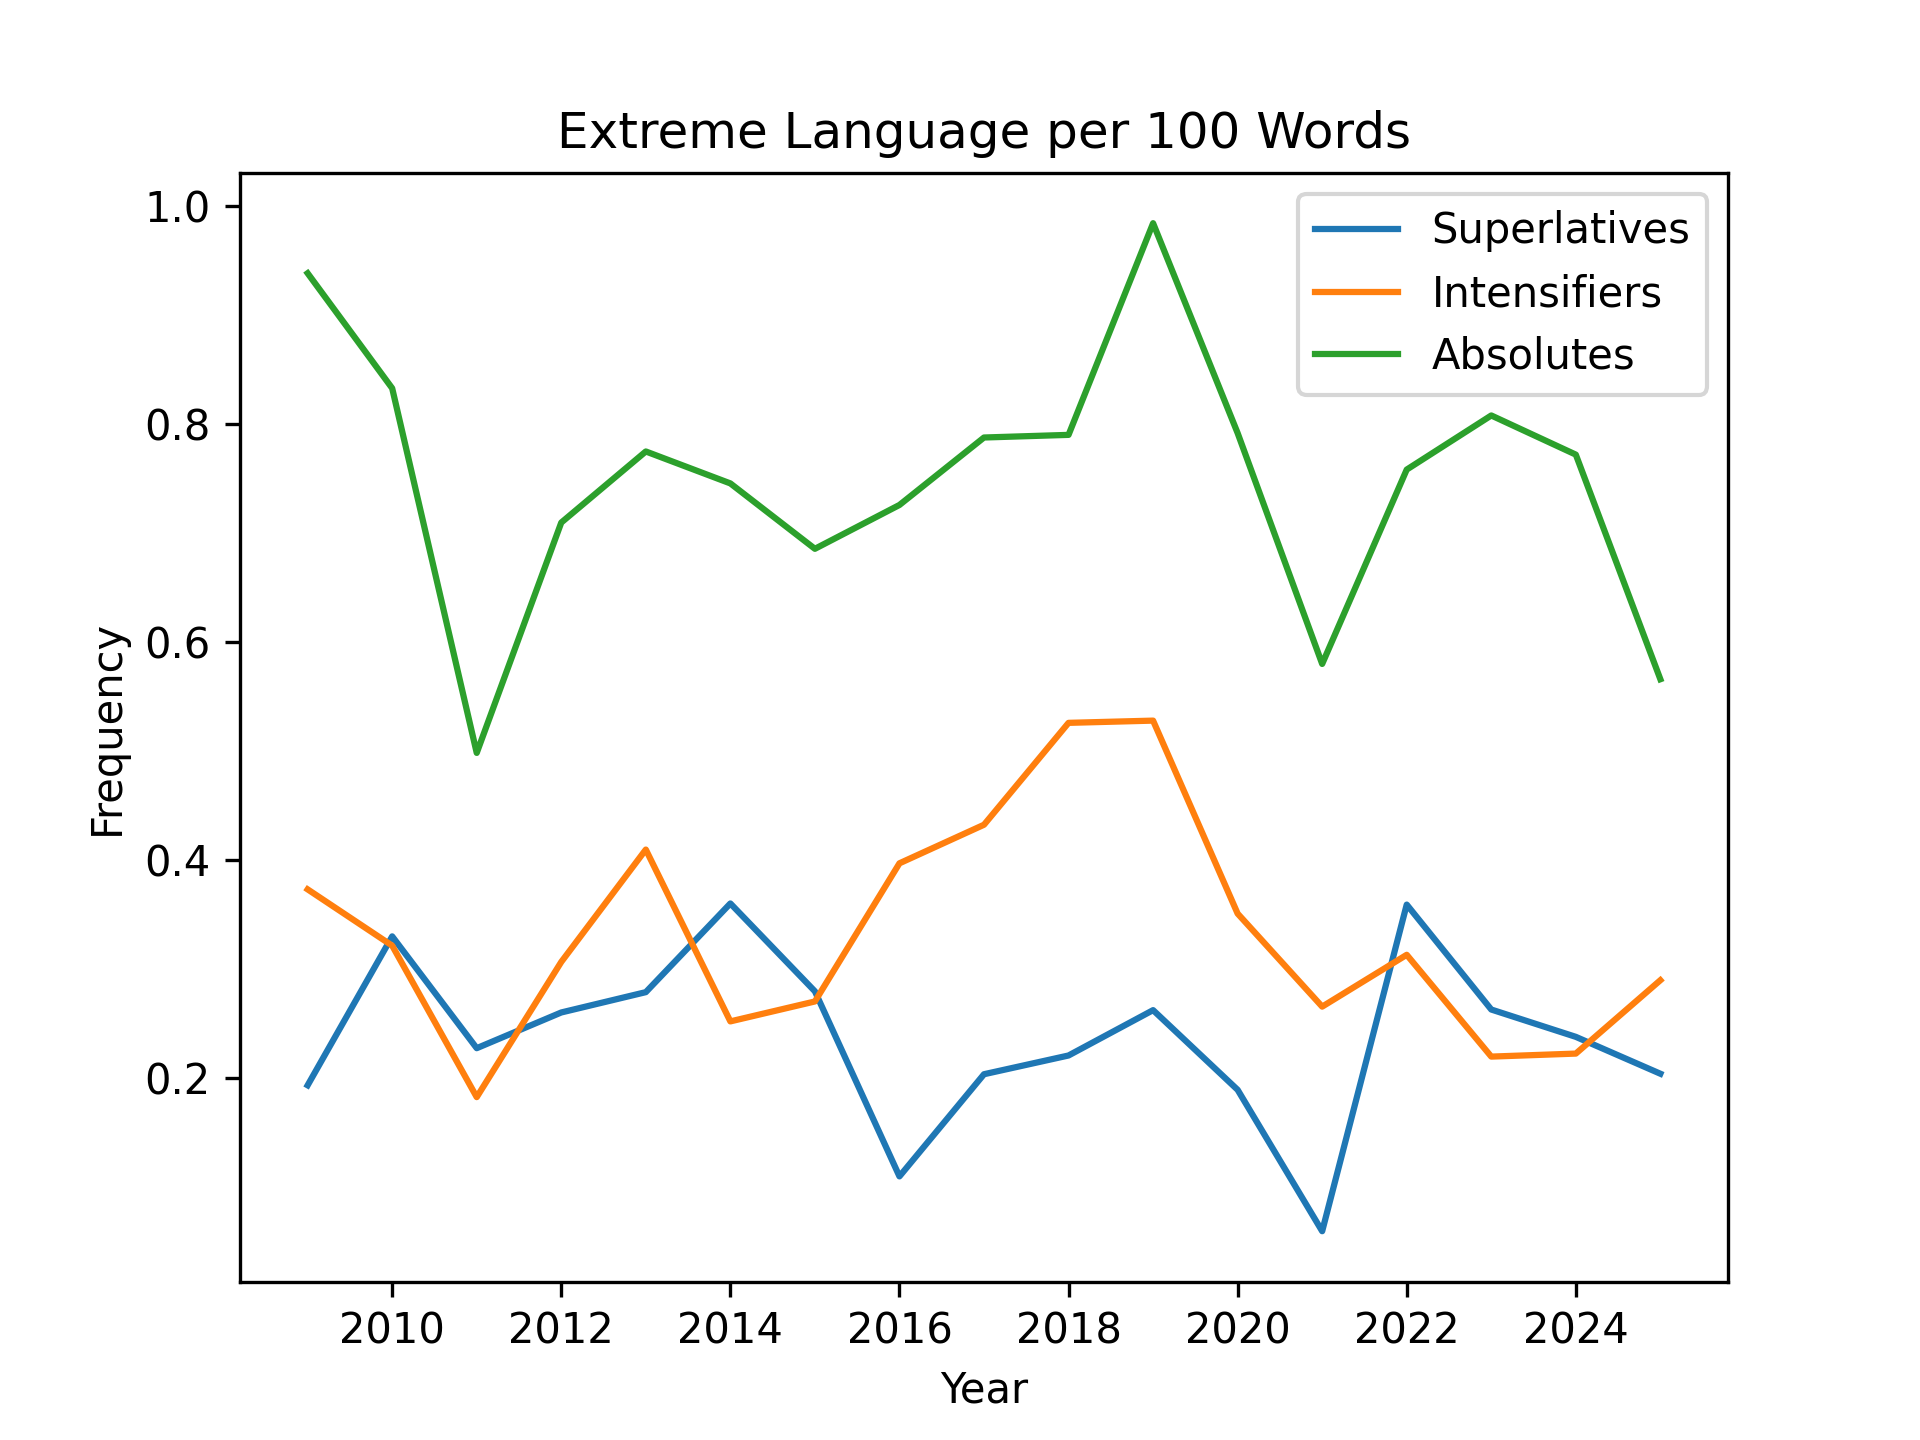
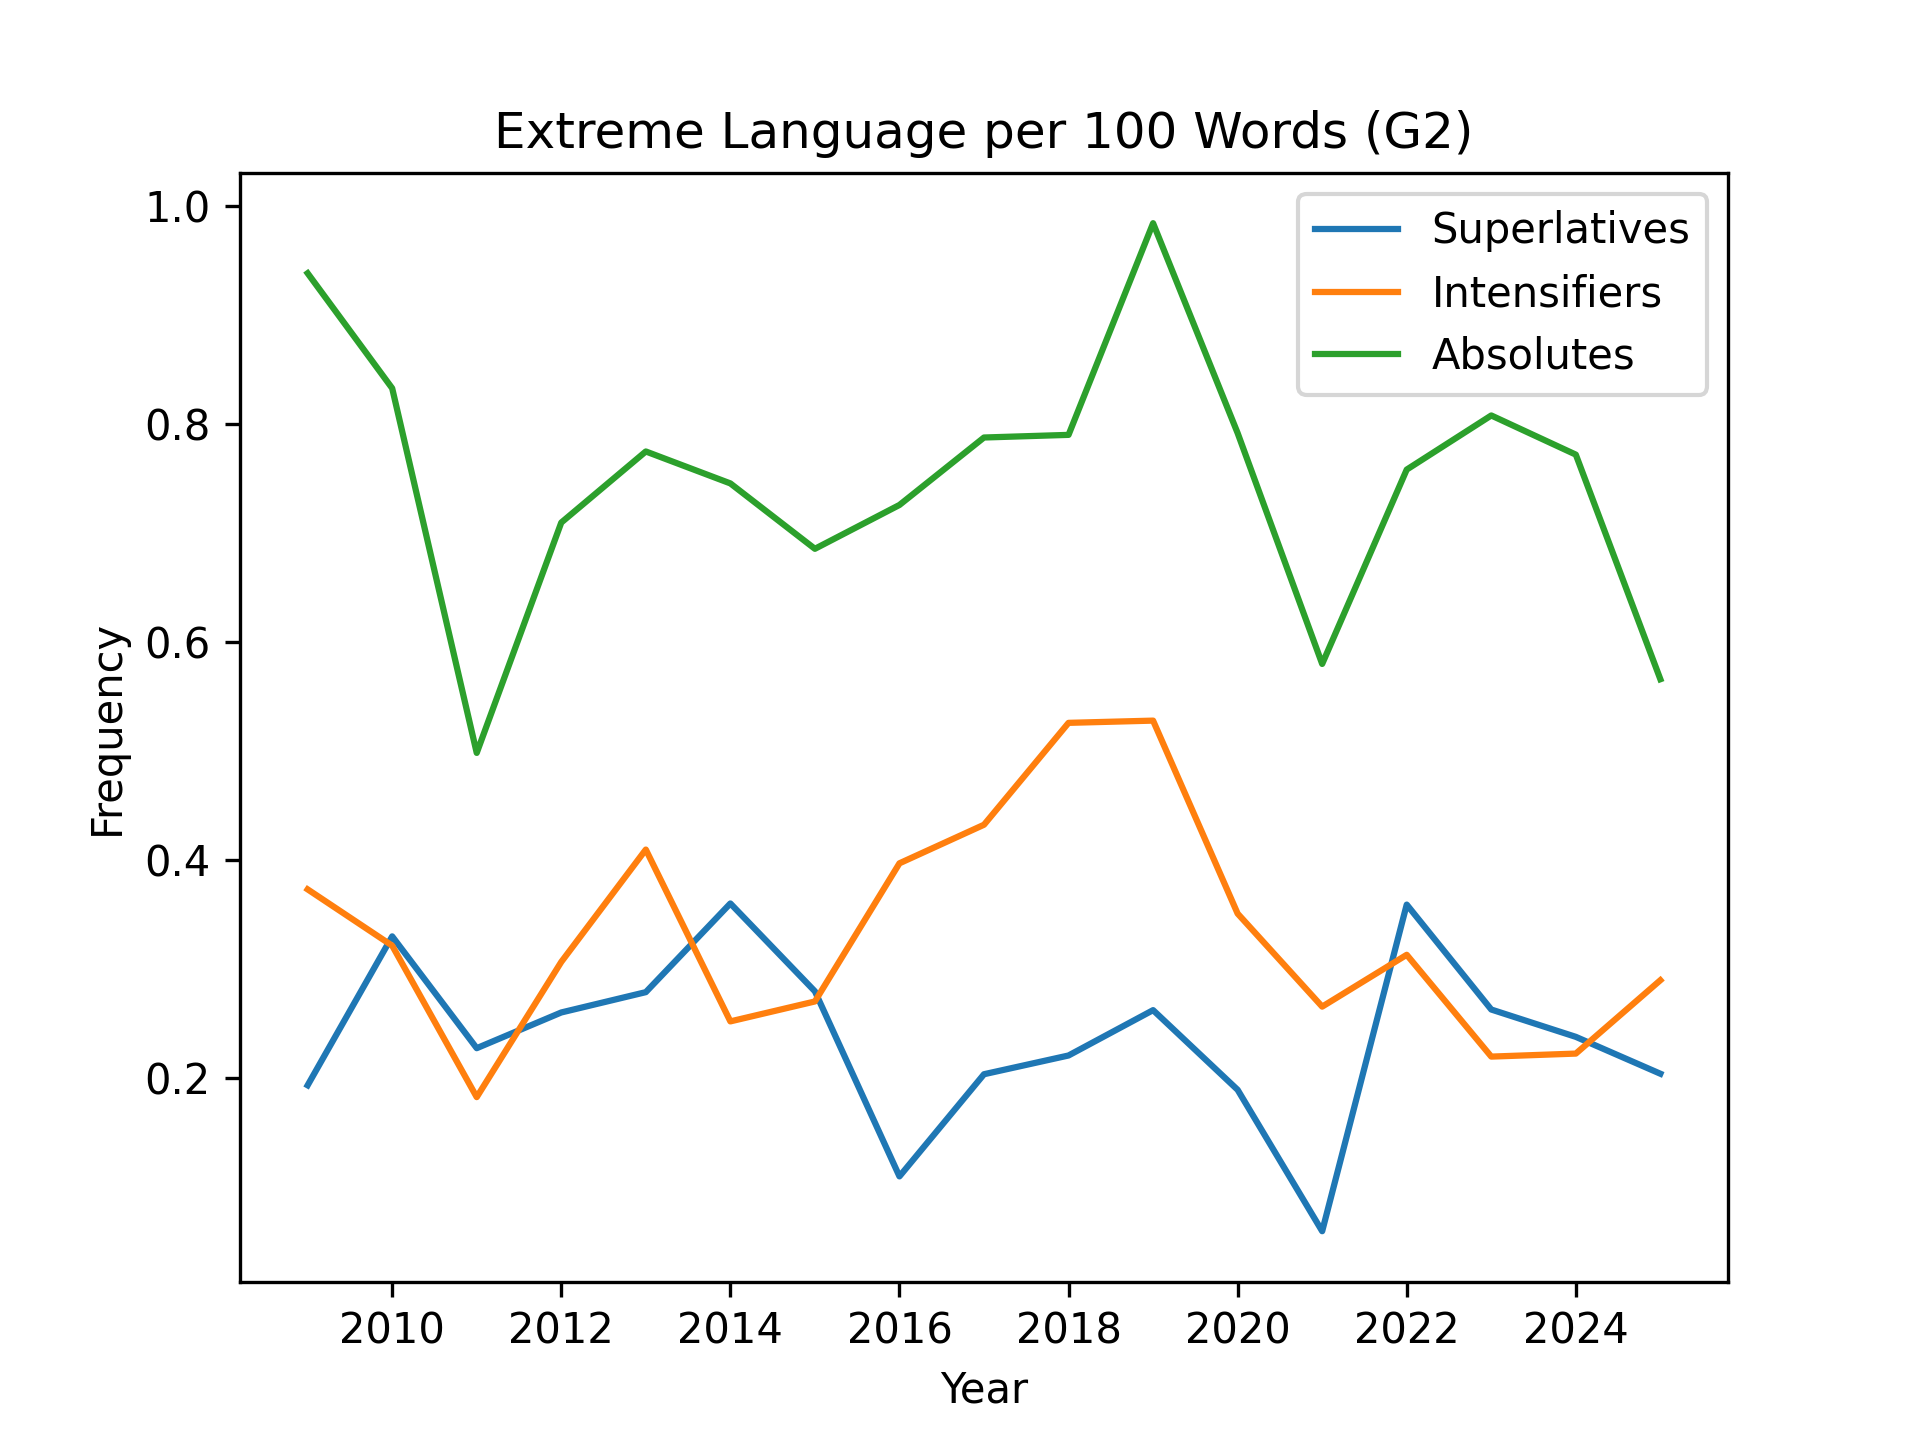
update graphics for slides, improve bigrams

Changed region(s): [[0.25, 0.0625, 0.75, 0.125]]

diff --git a/cas-ai/modul05/text-mining/text-mining.py b/cas-ai/modul05/text-mining/text-mining.py
@@ -161,7 +161,7 @@ plt.show()
 # ALL CAPS
 plt.figure()
 plt.plot(yearly["year"], yearly["caps_ratio"])
-plt.title("Average ALL CAPS Ratio per Year")
+plt.title("Average ALL CAPS Ratio per Year (G1)")
 plt.xlabel("Year")
 plt.ylabel("CAPS Ratio")
 plt.savefig('m05_01_caps_ratio.png', dpi=300)
@@ -181,7 +181,7 @@ plt.figure()
 plt.plot(yearly["year"], yearly["superlatives_per_100w"], label="Superlatives")
 plt.plot(yearly["year"], yearly["intensifiers_per_100w"], label="Intensifiers")
 plt.plot(yearly["year"], yearly["absolutes_per_100w"], label="Absolutes")
-plt.title("Extreme Language per 100 Words")
+plt.title("Extreme Language per 100 Words (G2)")
 plt.xlabel("Year")
 plt.ylabel("Frequency")
 plt.legend()
@@ -197,6 +197,7 @@ from nltk.corpus import stopwords
 from wordcloud import WordCloud
 import nltk
 
+# offical nltk stopwords, besser als manuelles abfüllen
 nltk.download("stopwords")
 
 # ---------------------------------------------
@@ -205,7 +206,7 @@ nltk.download("stopwords")
 
 STOPWORDS = set(stopwords.words("english"))
 
-# Korpus-spezifische Stopwords, twitter/truthsocial overhead
+# Korpus-spezifische Stopwords, twitter/truthsocial overhead, und handles müssen auch weg
 CUSTOM_STOPWORDS = {
     "trump", "donald", "realdonaldtrump",
     "twitter", "pic", "image", "rt",
@@ -234,6 +235,7 @@ top_words = pd.DataFrame(
     columns=["word", "count"]
 )
 
+# debug top 20
 print(top_words)
 
 
@@ -252,7 +254,7 @@ wc = WordCloud(
     stopwords=ALL_STOPWORDS,
     max_words=150,
     min_font_size=10,
-    collocations=False  # extrem wichtig!
+    collocations=False  # default ist true, wordcloud probiert dann bigramms zu erkennen, möchten wir hier nicht 
 )
 
 wc.generate_from_frequencies(word_freq)
@@ -278,7 +280,7 @@ wc_bigram = WordCloud(
     height=700,
     background_color="white",
     max_words=100,
-    collocations=False
+    collocations=False # auch hier: bigrams kommen von mir und wordcloud soll hier nichts selber machen
 )
 
 wc_bigram.generate_from_frequencies(bigram_freq)
@@ -290,3 +292,34 @@ plt.axis("off")
 plt.savefig("m05_01_wordcloud_bigrams.png", dpi=300, bbox_inches="tight")
 plt.show()
 
+# ---------------------------------------------
+# 9.3.1 Top-Unigramme (Balkendiagramm)
+# ---------------------------------------------
+
+top_unigrams = word_freq.most_common(20)
+unigram_df = pd.DataFrame(top_unigrams, columns=["token", "count"])
+
+plt.figure(figsize=(10, 6))
+plt.barh(unigram_df["token"], unigram_df["count"])
+plt.gca().invert_yaxis()
+plt.title("Top 20 Most Frequent Unigrams (2009–2025)")
+plt.xlabel("Frequency")
+plt.tight_layout()
+plt.savefig("m05_02_top_unigrams_bar.png", dpi=300)
+plt.show()
+
+# ---------------------------------------------
+# 9.3.2 Top-Bigramme (Balkendiagramm)
+# ---------------------------------------------
+
+top_bigrams = bigram_freq.most_common(20)
+bigram_df = pd.DataFrame(top_bigrams, columns=["token", "count"])
+
+plt.figure(figsize=(10, 6))
+plt.barh(bigram_df["token"], bigram_df["count"])
+plt.gca().invert_yaxis()
+plt.title("Top 20 Most Frequent Bigrams (2009–2025)")
+plt.xlabel("Frequency")
+plt.tight_layout()
+plt.savefig("m05_02_top_bigrams_bar.png", dpi=300)
+plt.show()
